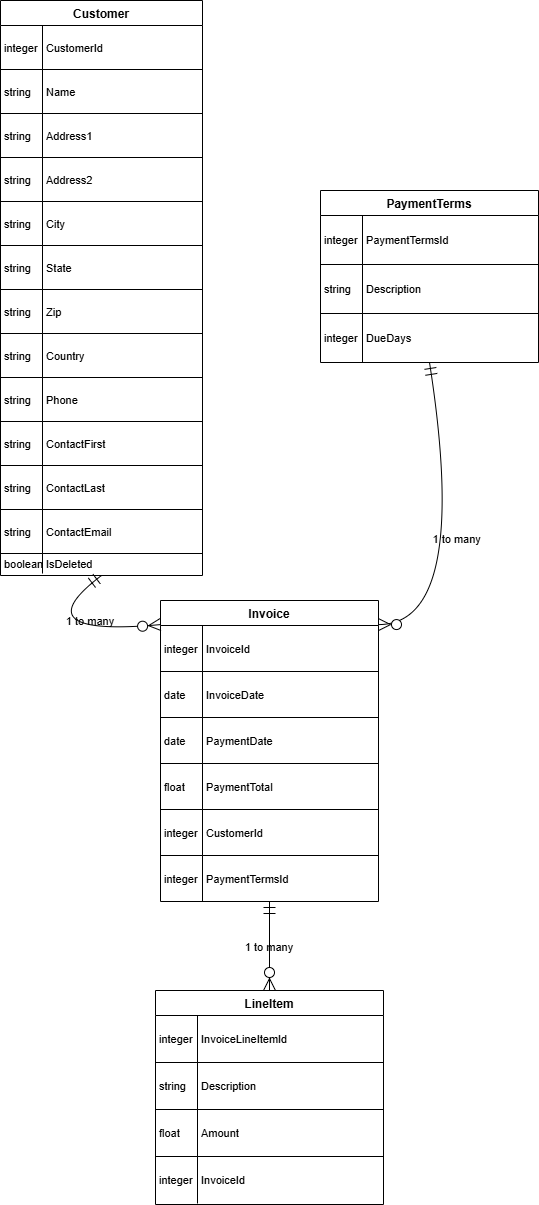
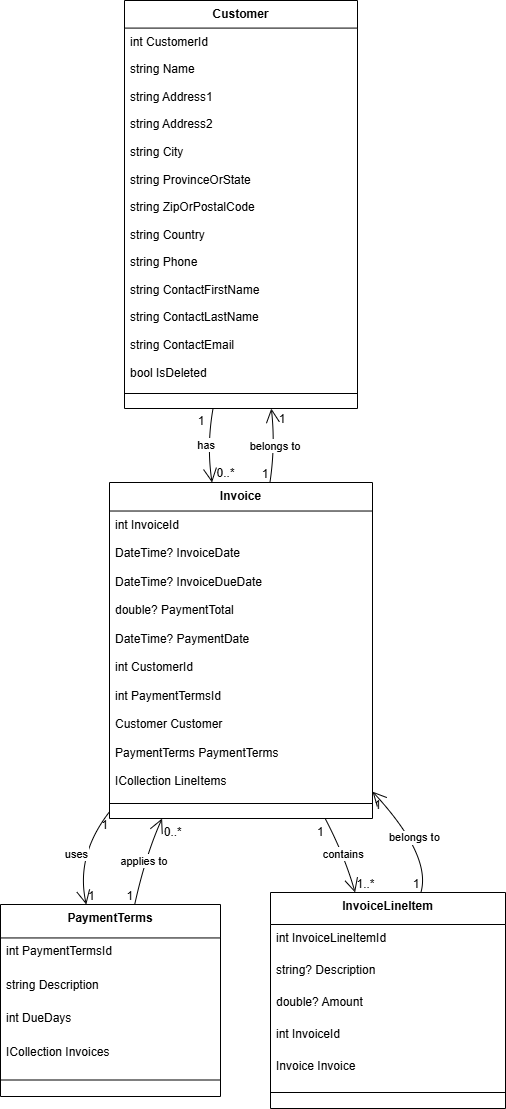
made changes to the InvoiceLineItem to correct cardinality, also cahnged the ERD diagram to right one

diff --git a/WebApplication1/Migrations/20251128021048_MakeInvoiceIdRequiredOnLineItem.cs b/WebApplication1/Migrations/20251128021048_MakeInvoiceIdRequiredOnLineItem.cs
@@ -1,0 +1,108 @@
+using Microsoft.EntityFrameworkCore.Migrations;
+
+#nullable disable
+
+namespace WebApplication1.Migrations
+{
+    /// <inheritdoc />
+    public partial class MakeInvoiceIdRequiredOnLineItem : Migration
+    {
+        /// <inheritdoc />
+        protected override void Up(MigrationBuilder migrationBuilder)
+        {
+            migrationBuilder.AlterColumn<string>(
+                name: "ZipOrPostalCode",
+                table: "Customers",
+                type: "nvarchar(max)",
+                nullable: false,
+                defaultValue: "",
+                oldClrType: typeof(string),
+                oldType: "nvarchar(max)",
+                oldNullable: true);
+
+            migrationBuilder.AlterColumn<string>(
+                name: "ProvinceOrState",
+                table: "Customers",
+                type: "nvarchar(max)",
+                nullable: false,
+                defaultValue: "",
+                oldClrType: typeof(string),
+                oldType: "nvarchar(max)",
+                oldNullable: true);
+
+            migrationBuilder.AlterColumn<string>(
+                name: "Phone",
+                table: "Customers",
+                type: "nvarchar(max)",
+                nullable: false,
+                defaultValue: "",
+                oldClrType: typeof(string),
+                oldType: "nvarchar(max)",
+                oldNullable: true);
+
+            migrationBuilder.AlterColumn<string>(
+                name: "City",
+                table: "Customers",
+                type: "nvarchar(max)",
+                nullable: false,
+                defaultValue: "",
+                oldClrType: typeof(string),
+                oldType: "nvarchar(max)",
+                oldNullable: true);
+
+            migrationBuilder.AlterColumn<string>(
+                name: "Address1",
+                table: "Customers",
+                type: "nvarchar(max)",
+                nullable: false,
+                defaultValue: "",
+                oldClrType: typeof(string),
+                oldType: "nvarchar(max)",
+                oldNullable: true);
+        }
+
+        /// <inheritdoc />
+        protected override void Down(MigrationBuilder migrationBuilder)
+        {
+            migrationBuilder.AlterColumn<string>(
+                name: "ZipOrPostalCode",
+                table: "Customers",
+                type: "nvarchar(max)",
+                nullable: true,
+                oldClrType: typeof(string),
+                oldType: "nvarchar(max)");
+
+            migrationBuilder.AlterColumn<string>(
+                name: "ProvinceOrState",
+                table: "Customers",
+                type: "nvarchar(max)",
+                nullable: true,
+                oldClrType: typeof(string),
+                oldType: "nvarchar(max)");
+
+            migrationBuilder.AlterColumn<string>(
+                name: "Phone",
+                table: "Customers",
+                type: "nvarchar(max)",
+                nullable: true,
+                oldClrType: typeof(string),
+                oldType: "nvarchar(max)");
+
+            migrationBuilder.AlterColumn<string>(
+                name: "City",
+                table: "Customers",
+                type: "nvarchar(max)",
+                nullable: true,
+                oldClrType: typeof(string),
+                oldType: "nvarchar(max)");
+
+            migrationBuilder.AlterColumn<string>(
+                name: "Address1",
+                table: "Customers",
+                type: "nvarchar(max)",
+                nullable: true,
+                oldClrType: typeof(string),
+                oldType: "nvarchar(max)");
+        }
+    }
+}

diff --git a/WebApplication1/Migrations/20251128021048_MakeInvoiceIdRequiredOnLineItem.Designer.cs b/WebApplication1/Migrations/20251128021048_MakeInvoiceIdRequiredOnLineItem.Designer.cs
@@ -3,6 +3,7 @@ using System;
 using Microsoft.EntityFrameworkCore;
 using Microsoft.EntityFrameworkCore.Infrastructure;
 using Microsoft.EntityFrameworkCore.Metadata;
+using Microsoft.EntityFrameworkCore.Migrations;
 using Microsoft.EntityFrameworkCore.Storage.ValueConversion;
 using WebApplication1.Entities;
 
@@ -11,9 +12,11 @@ using WebApplication1.Entities;
 namespace WebApplication1.Migrations
 {
     [DbContext(typeof(CustomerDbContext))]
-    partial class CustormerDbContextModelSnapshot : ModelSnapshot
+    [Migration("20251128021048_MakeInvoiceIdRequiredOnLineItem")]
+    partial class MakeInvoiceIdRequiredOnLineItem
     {
-        protected override void BuildModel(ModelBuilder modelBuilder)
+        /// <inheritdoc />
+        protected override void BuildTargetModel(ModelBuilder modelBuilder)
         {
 #pragma warning disable 612, 618
             modelBuilder

diff --git a/WebApplication1/Entities/InvoiceLineItem.cs b/WebApplication1/Entities/InvoiceLineItem.cs
@@ -9,7 +9,7 @@
         public string? Description { get; set; }
 
         // FK:
-        public int? InvoiceId { get; set; }
+        public int InvoiceId { get; set; } //Require Foreign Key to Invoice
 
         // Navigation property because Each line item belongs to one invoice
         public Invoice Invoice { get; set; }
